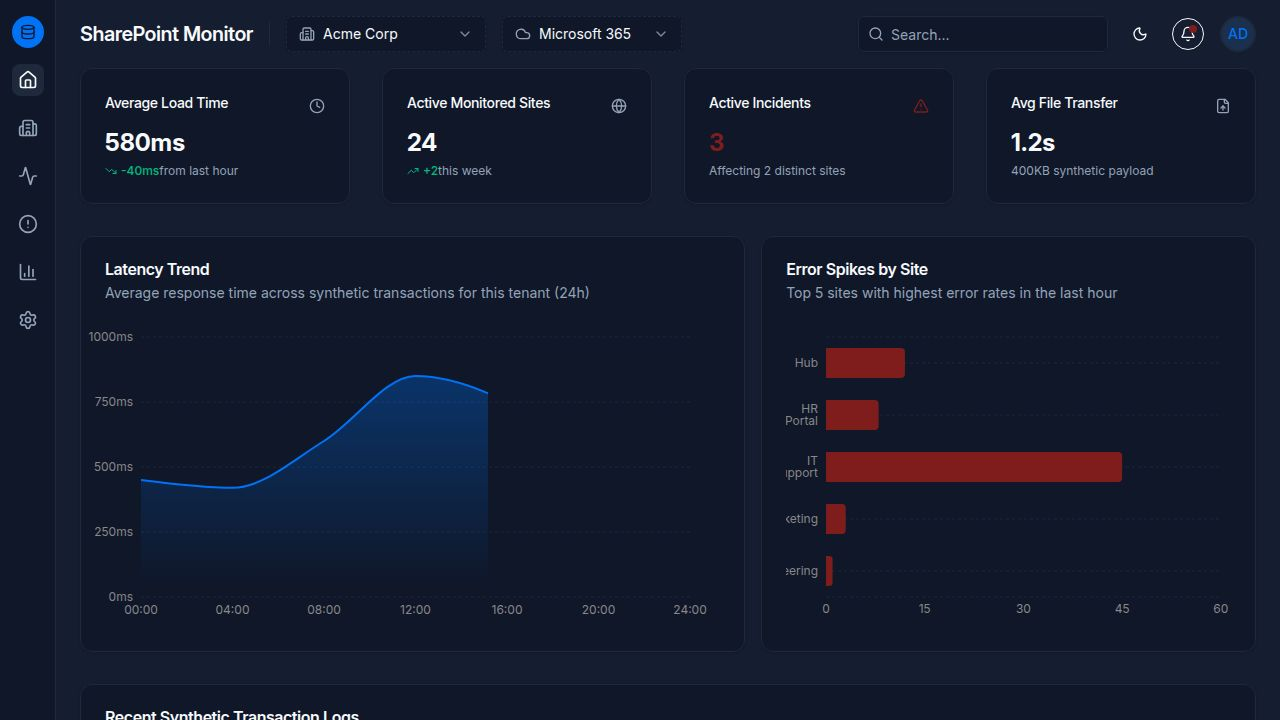
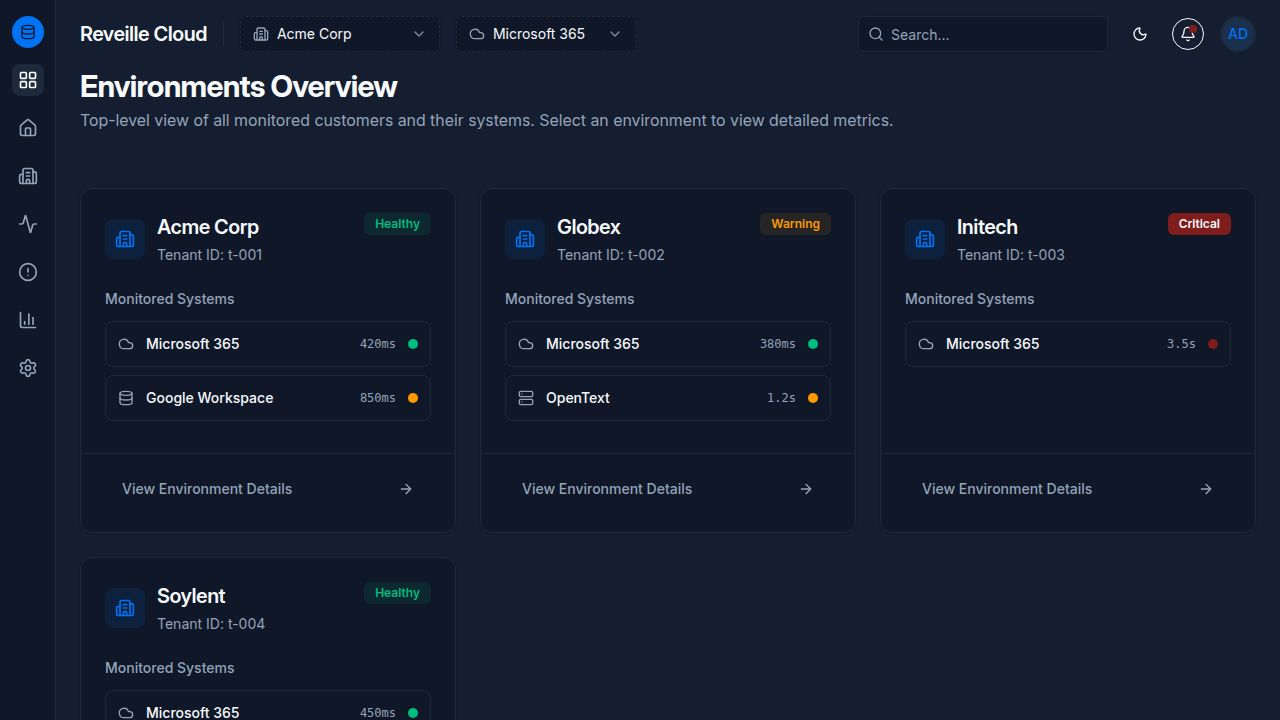
Update application name and branding to Reveille Cloud
Update the application's title, metadata, and internal references from "SharePoint Performance Monitor" to "Reveille Cloud" across `index.html` and various React components.

Replit-Commit-Author: Agent
Replit-Commit-Session-Id: 2ea3986a-7a1c-4d07-9822-ecee8bdd48c3
Replit-Commit-Checkpoint-Type: full_checkpoint
Replit-Commit-Event-Id: c5f664ca-272d-4f59-af5c-bfdde03d192e
Replit-Commit-Screenshot-Url: https://storage.googleapis.com/screenshot-production-us-central1/10a86ba9-367b-4ae1-af48-1e97c2c99a15/2ea3986a-7a1c-4d07-9822-ecee8bdd48c3/1kp8gTe
Replit-Helium-Checkpoint-Created: true

diff --git a/client/index.html b/client/index.html
@@ -3,15 +3,16 @@
   <head>
     <meta charset="UTF-8" />
     <meta name="viewport" content="width=device-width, initial-scale=1.0, maximum-scale=1" />
+    <title>Reveille Cloud</title>
 
-    <meta property="og:title" content="SharePoint Performance Monitor" />
-    <meta property="og:description" content="Multi-tenant performance and availability monitoring for SharePoint Online." />
+    <meta property="og:title" content="Reveille Cloud" />
+    <meta property="og:description" content="Multi-tenant performance and availability monitoring." />
     <meta property="og:type" content="website" />
     <meta property="og:image" content="https://replit.com/public/images/opengraph.png" />
     <meta name="twitter:card" content="summary_large_image" />
     <meta name="twitter:site" content="@replit" />
-    <meta name="twitter:title" content="SharePoint Performance Monitor" />
-    <meta name="twitter:description" content="Multi-tenant performance and availability monitoring for SharePoint Online." />
+    <meta name="twitter:title" content="Reveille Cloud" />
+    <meta name="twitter:description" content="Multi-tenant performance and availability monitoring." />
     <meta name="twitter:image" content="https://replit.com/public/images/opengraph.png" />
 
     <link rel="icon" type="image/png" href="/favicon.png" />

diff --git a/client/src/components/layout/Header.tsx b/client/src/components/layout/Header.tsx
@@ -50,7 +50,7 @@ export function Header() {
           <nav className="grid gap-6 text-lg font-medium mt-6">
             <Link href="/" className="group flex h-10 w-10 shrink-0 items-center justify-center gap-2 rounded-full bg-primary text-lg font-semibold text-primary-foreground md:text-base">
               <Database className="h-5 w-5 transition-all group-hover:scale-110" />
-              <span className="sr-only">SP Monitor</span>
+              <span className="sr-only">Reveille Cloud</span>
             </Link>
             {navItems.map((item) => (
               <Link
@@ -71,7 +71,7 @@ export function Header() {
       </Sheet>
 
       <div className="flex-1 flex items-center gap-2 sm:gap-4 overflow-x-auto pb-1 sm:pb-0 hide-scrollbar">
-        <h1 className="text-xl font-semibold tracking-tight hidden sm:block whitespace-nowrap shrink-0">SharePoint Monitor</h1>
+        <h1 className="text-xl font-semibold tracking-tight hidden sm:block whitespace-nowrap shrink-0">Reveille Cloud</h1>
         
         <div className="h-6 w-px bg-border hidden sm:block shrink-0" />
         

diff --git a/client/src/components/layout/Sidebar.tsx b/client/src/components/layout/Sidebar.tsx
@@ -33,7 +33,7 @@ export function Sidebar() {
       <nav className="flex flex-col items-center gap-4 px-2 py-4">
         <Link href="/" className="group flex h-9 w-9 shrink-0 items-center justify-center gap-2 rounded-full bg-primary text-lg font-semibold text-primary-foreground md:h-8 md:w-8 md:text-base">
           <Database className="h-4 w-4 transition-all group-hover:scale-110" />
-          <span className="sr-only">SP Monitor</span>
+          <span className="sr-only">Reveille Cloud</span>
         </Link>
         {navItems.map((item) => (
           <Tooltip key={item.href}>
